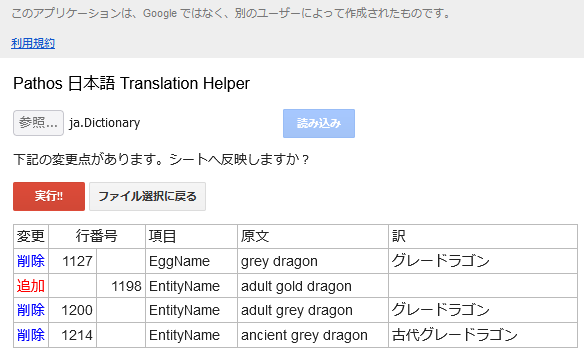
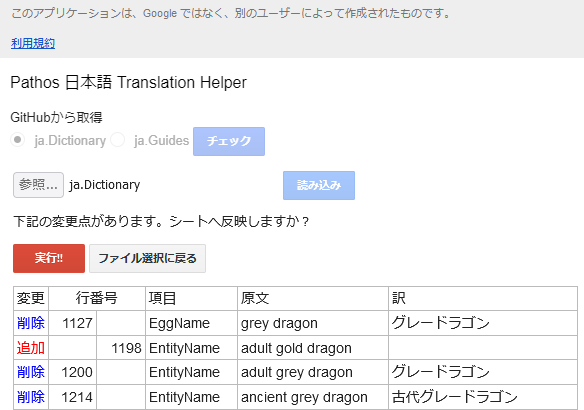
update README.md

diff --git a/README.md b/README.md
@@ -13,6 +13,7 @@ This helps Google Spreadsheet workflow for Pathos NetHack Codec translators.
   AppearanceName and ItemName are judged as the same concepts.<br>
   ![duplicate check](duplicateCheck.png)
 - Semi-auto import function for Dictionary and Guides files.<br>
+  Can check changes from both files or the official GitHub repository.<br>
   Deleted lines are not removed from spreadsheet automatically for safety, only changed background color.<br>
   ![import](import.png)
 
@@ -65,6 +66,7 @@ clasp clone [your script ID]
 
 In Google Apps Script web editor, enter your project and press the edit icon (gear wheel), and add script properties.
 - dictionarySheet: sheet name for contents of dictionary file in your spreadsheet.
+- gitRepo: GitHub repository path.
 - guidesSheet: sheet name for contents of guides file in your spreadsheet.
 - sheetID: sheet ID of your spreadsheet. You can see it in URL of spreadsheet like below.<br>
 `https://docs.google.com/spreadsheets/d/[your sheet ID]/edit#gid=xxxxx`
